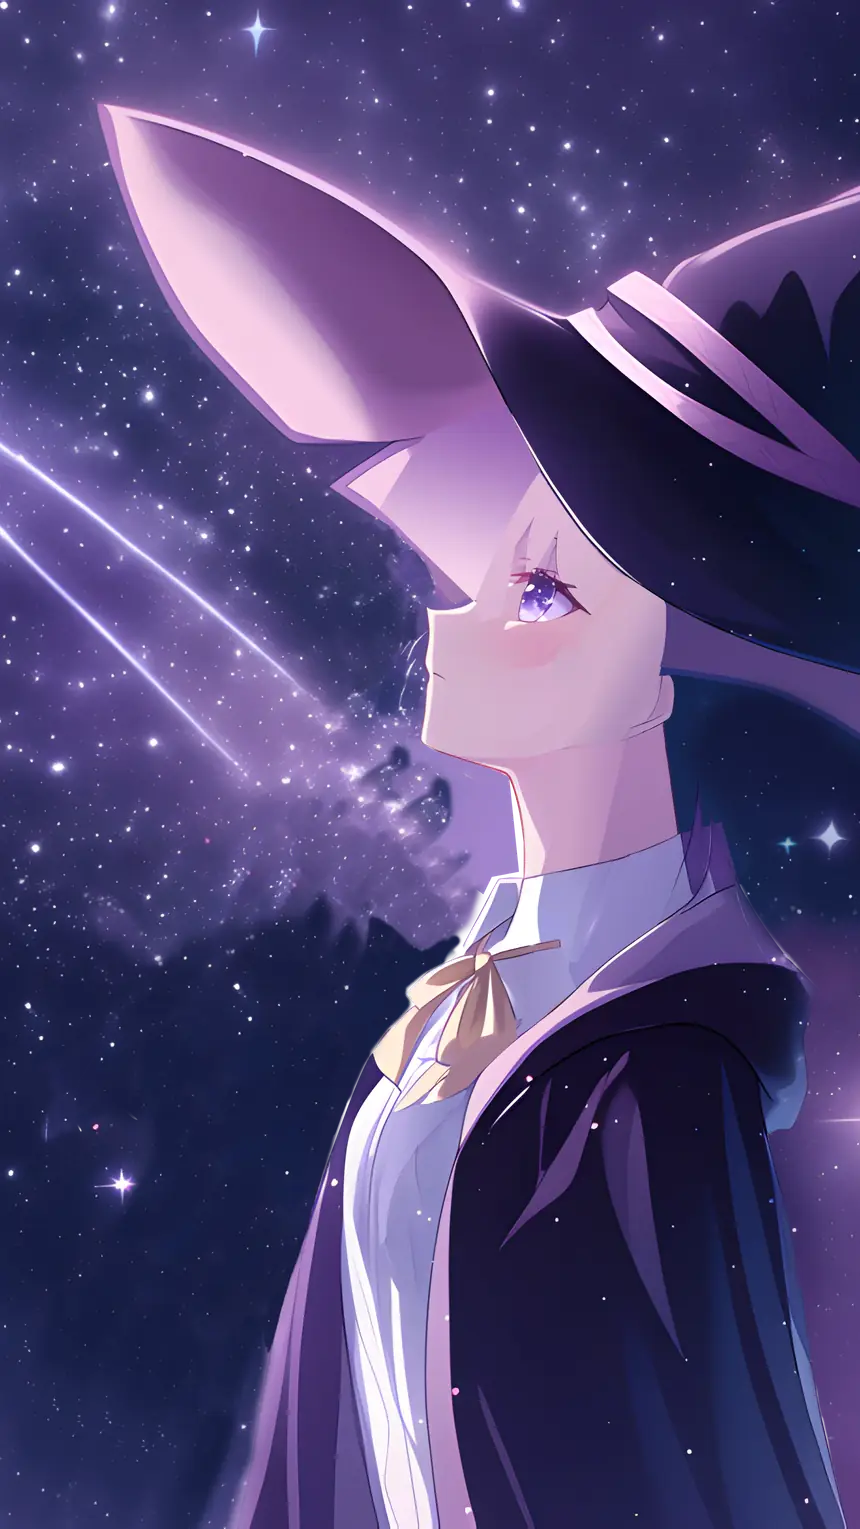
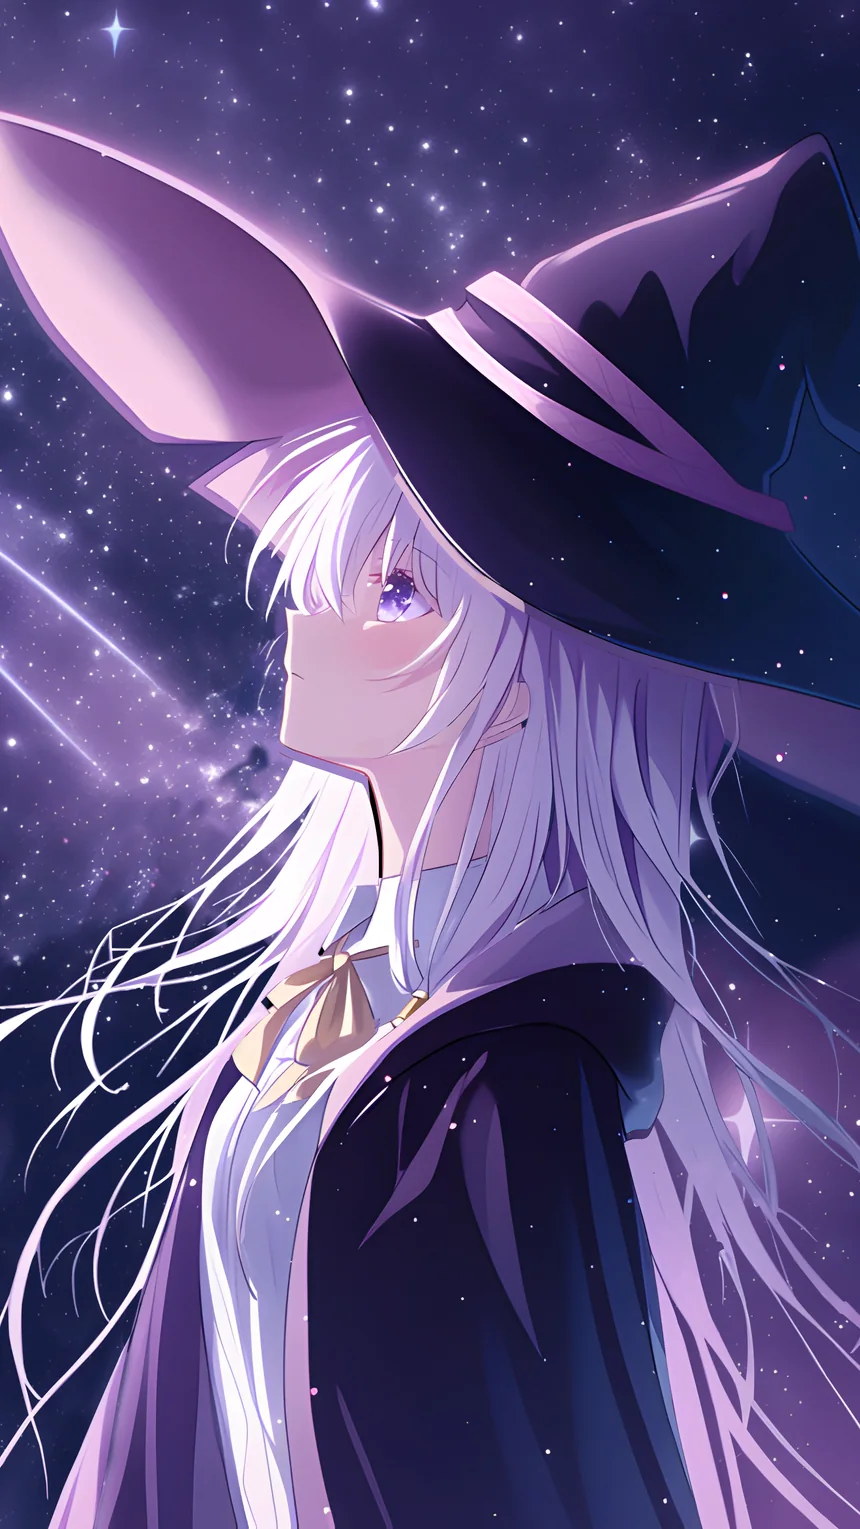
壁纸补回头发图层，卡片改为居中并稍提高透明度

diff --git a/src/styles/global.css b/src/styles/global.css
@@ -15,9 +15,9 @@
   --soft-active: #efebe4;
   --accent: #1d5c8f;
   --accent-deep: #154263;
-  --width: 46rem;
+  --width: 42rem;
   --gutter: 1.25rem;
-  --panel: rgba(253, 252, 250, 0.95);
+  --panel: rgba(253, 252, 250, 0.92);
   --font-sans: -apple-system, BlinkMacSystemFont, 'Segoe UI', 'PingFang SC',
     'Hiragino Sans GB', 'Microsoft YaHei', 'Source Han Sans SC', sans-serif;
   --font-mono: ui-monospace, SFMono-Regular, 'SF Mono', Consolas,
@@ -750,30 +750,37 @@ main {
   }
 }
 
-/* 宽屏：阅读列靠左，人物留在右侧。
-   壁纸里伊蕾娜位于画面中线，居中卡片会正好压住她的脸；
-   靠左之后两者各占一边，互不遮挡。
-   卡片宽度随视口收缩，因为这个区间里她始终落在约 50% 处。 */
+/* 宽屏：阅读列居中；壁纸是加宽过的（2.22:1，人物被放到右侧），
+   取景窗越靠左，人物在屏幕上越靠右，正好让开居中的卡片。 */
 @media (min-width: 900px) {
   :root {
-    --width: min(42rem, 40vw);
-    --col-left: clamp(1.5rem, 6vw, 9rem);
+    --width: min(36rem, 86vw);
   }
 
+  /* 壁纸是加宽版（2.22:1）。视口越扁，取景窗越要往左挪，
+     人物才能稳定落在居中卡片的右侧 */
   body::before {
-    background-position: left center;
-  }
-
-  .site-header .inner,
-  main,
-  .site-footer .inner {
-    margin-left: var(--col-left);
-    margin-right: auto;
+    background-position: 30% center;
   }
 }
 
-@media (min-width: 1680px) {
-  :root {
-    --width: 42rem;
+@media (min-width: 900px) and (min-aspect-ratio: 3/2) {
+  body::before {
+    background-position: 22% center;
+  }
+}
+
+@media (min-width: 900px) and (min-aspect-ratio: 16/9) {
+  body::before {
+    background-position: 0% center;
+  }
+}
+
+/* 接近方形的视口：加宽壁纸只剩很窄一条，改回竖幅取景，人物从卡片下方露出来 */
+@media (min-width: 900px) and (max-aspect-ratio: 5/4) {
+  body::before {
+    background-image: url('/images/bg-mobile.webp');
+    background-size: cover;
+    background-position: center top;
   }
 }
